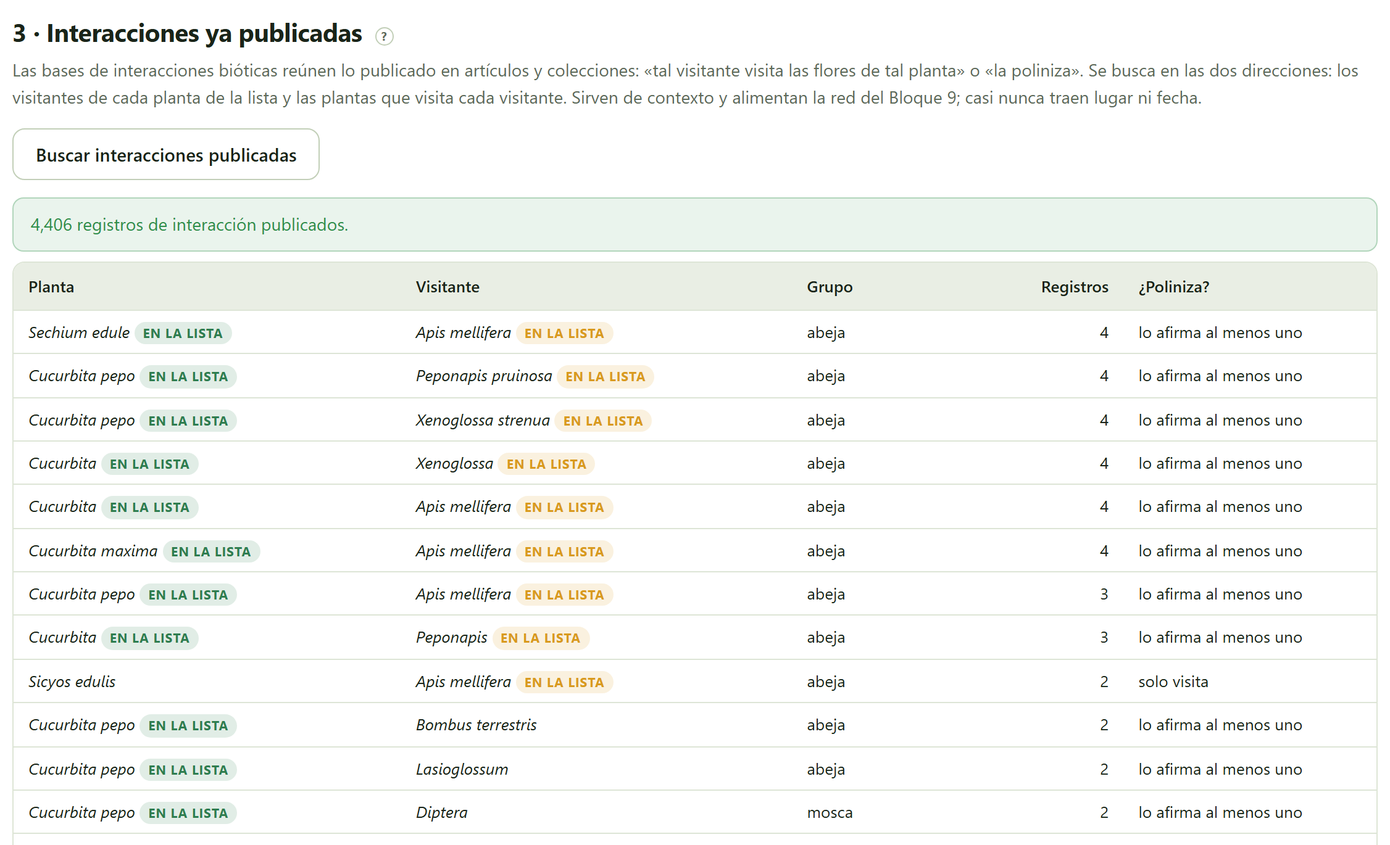
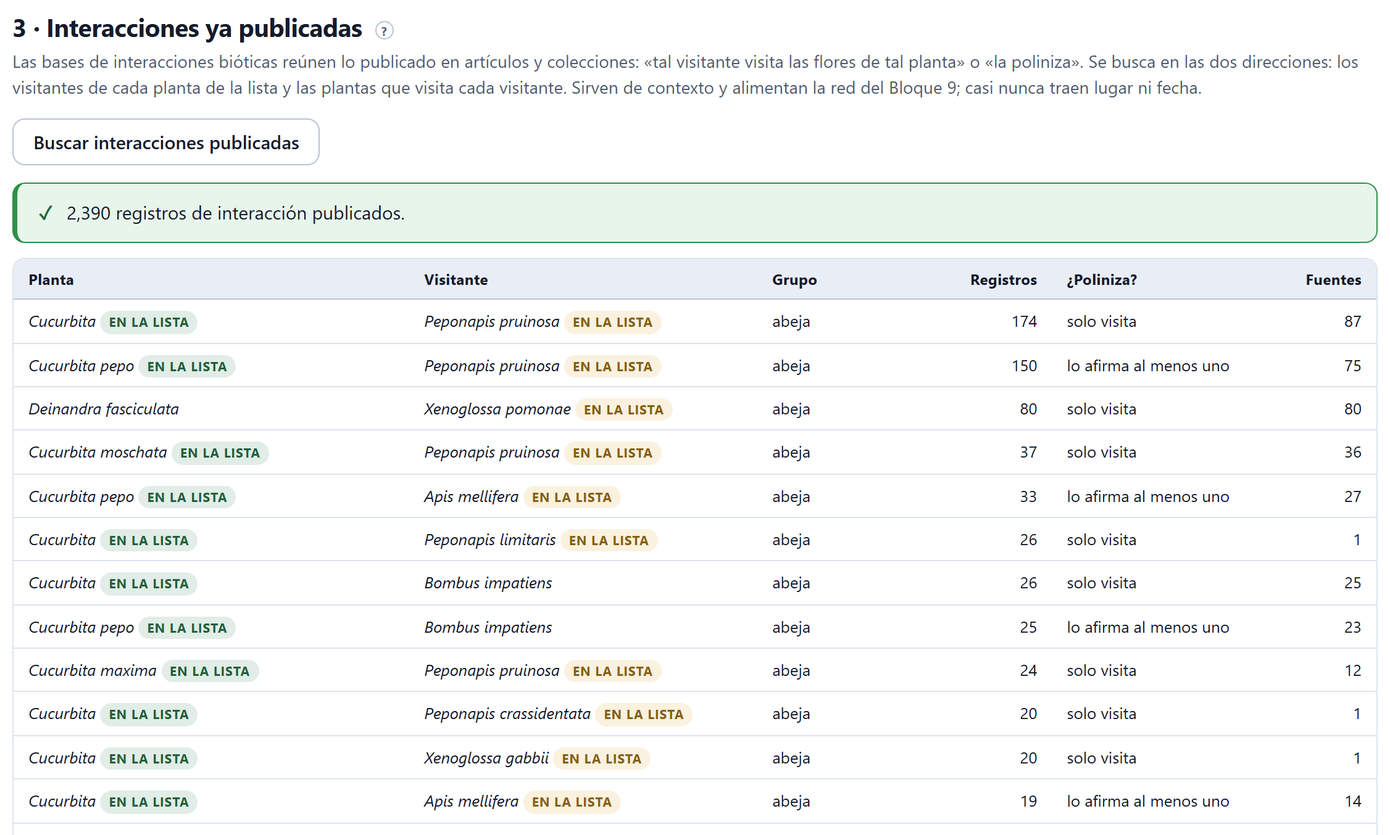
Manual en español: al día con la app 1.2.5
- Cap. 8: omisión 17 % y umbral 0.448 de Apis; futuro de práctica −45 % y −73 %.
- Cap. 10: el editor ✎ actual (seis pestañas, «Deshacer todo en esta figura»,
  «Copiar el estilo a todas las figuras»), capturas rehechas.
- Introducción: lista «Bloques» e índice «En este bloque» en lugar de la barra
  de pasos; figura I.2 rehecha.
- Cita y portada con la versión 1.2.5; captura de «Cómo citar» rehecha.
- Cap. 2: consultas a GBIF y a la base de interacciones del 31 de octubre de 2026
  (capturas y cifras nuevas); LEEME con la nueva fecha.

diff --git a/manual/es/00b-introduccion.html b/manual/es/00b-introduccion.html
@@ -24,16 +24,16 @@
   <dl>
     <dt>Autor</dt><dd><b>Luis Ángel Barrera-Guzmán</b><br><span class="small">ORCID 0000-0001-8057-2583</span></dd>
     <dt>Programa</dt><dd>PollinationPro, versión 1.2.5 (octubre de 2026) · DOI 10.5281/zenodo.23004694</dd>
-    <dt>Manual</dt><dd>Primera edición en español, 2026. Describe la versión 1.2 del programa.</dd>
+    <dt>Manual</dt><dd>Primera edición en español, 2026. Describe la versión 1.2.5 del programa.</dd>
     <dt>Licencia del programa</dt><dd>Licencia Pública General de GNU, versión 3 o posterior (GPL-3.0-or-later).</dd>
     <dt>Derechos del manual</dt><dd>© 2026 Luis Ángel Barrera-Guzmán. Todos los derechos reservados.</dd>
     <dt>Idioma de la interfaz</dt><dd>Español o inglés, con el botón <span class="ui">ES</span> · <span class="ui">EN</span> de la barra superior. En este manual los nombres de botones, campos y menús se escriben como aparecen en pantalla en español, por ejemplo <span class="ui">Depurar y aplicar</span>.</dd>
   </dl>
 
   <h4>Cómo citar el programa</h4>
-  <div class="cita">Barrera-Guzmán, L. Á. (2026). <i>PollinationPro: plataforma en el navegador para el análisis de plantas, polinizadores y su solapamiento con datos de presencia</i> (versión 1.2) [Programa de cómputo]. Zenodo. https://doi.org/10.5281/zenodo.23004694</div>
+  <div class="cita">Barrera-Guzmán, L.Á. (2026). <i>PollinationPro: plataforma en el navegador para el análisis de plantas, polinizadores y su solapamiento con datos de presencia</i> (versión 1.2.5) [software]. Zenodo. https://doi.org/10.5281/zenodo.23004694</div>
   <h4>Cómo citar este manual</h4>
-  <div class="cita">Barrera-Guzmán, L. Á. (2026). <i>PollinationPro. Manual de usuario</i> (1.ª ed.). Distribuido con PollinationPro, versión 1.2. Zenodo. https://doi.org/10.5281/zenodo.23004694</div>
+  <div class="cita">Barrera-Guzmán, L.Á. (2026). <i>PollinationPro. Manual de usuario</i> (1.ª ed.). Distribuido con PollinationPro, versión 1.2.5. Zenodo. https://doi.org/10.5281/zenodo.23004694</div>
   <p class="small">Es el <b>DOI de concepto</b> en Zenodo: lleva siempre a la versión más reciente. En línea: <span class="ruta">luisangelbg.github.io/PollinationPro</span>.</p>
 
   <div class="caja nota">
@@ -202,7 +202,7 @@
 <!-- ====================================================================== CÓMO LEER -->
 <section class="preliminares" id="como-leer" data-nueva-hoja style="--acento: var(--b0)">
   <h2 style="margin-top:0.2in">Cómo leer este manual</h2>
-  <p class="lead">El manual sigue el mismo orden que la app: diez bloques numerados que se recorren de izquierda a derecha en la barra de arriba. Cada capítulo explica un bloque y lleva su mismo número —el capítulo 5 es el Bloque 5, y sus secciones, figuras y tablas se numeran 5.1, 5.2…—. Cada uno empieza con la idea ecológica que el bloque necesita, sigue con lo que la pantalla calcula y cómo se lee, y termina con los avisos que el bloque puede mostrar y qué hacer con ellos. Esta introducción no lleva número: sus secciones van como I.1, I.2…</p>
+  <p class="lead">El manual sigue el mismo orden que la app: diez bloques numerados que se recorren de arriba abajo en la lista <span class="ui">Bloques</span> de la izquierda. Cada capítulo explica un bloque y lleva su mismo número —el capítulo 5 es el Bloque 5, y sus secciones, figuras y tablas se numeran 5.1, 5.2…—. Cada uno empieza con la idea ecológica que el bloque necesita, sigue con lo que la pantalla calcula y cómo se lee, y termina con los avisos que el bloque puede mostrar y qué hacer con ellos. Esta introducción no lleva número: sus secciones van como I.1, I.2…</p>
 
   <h3>Un color para cada bloque</h3>
   <p>El color del bloque aparece en la apertura de su capítulo, en el número de cada sección, en la pestaña del borde de la hoja y en el índice, y es el mismo de la franja de la portada y de la app.</p>
@@ -423,18 +423,18 @@
   <!-- I.6 -->
   <h2 id="si-6"><span class="num">I.6</span>Recorrido por la interfaz</h2>
   <figure>
-    <div class="marco"><img src="../img/inicio.png" alt="La pantalla inicial de PollinationPro: la barra superior con la marca, el estudio de figuras, el idioma y el tema; la barra de los diez pasos; y la portada con su pregunta, sus cuatro botones y su ilustración"></div>
-    <figcaption><b>Figura I.2.</b> La pantalla inicial. Arriba, la barra fija con la marca, el botón de la paleta (el estudio de figuras), el selector de idioma y el del tema; debajo, la barra de los diez pasos; y la portada del Bloque 1 con la pregunta que el programa contesta: <i>¿coinciden la flor y su polinizador?</i></figcaption>
+    <div class="marco"><img src="../img/inicio.png" alt="La pantalla inicial de PollinationPro: la barra superior con la marca, el estudio de figuras, el idioma y el tema; a la izquierda, la lista de los diez bloques; al centro, la ruta, los modos Documento y Enfocado, la portada con su pregunta, sus botones y su ilustración; a la derecha, el índice En este bloque"></div>
+    <figcaption><b>Figura I.2.</b> La pantalla inicial. Arriba, la barra fija con la marca, el botón de la paleta (el estudio de figuras), el selector de idioma y el del tema; a la izquierda, la lista <span class="ui">Bloques</span> con los diez bloques; a la derecha, el índice <span class="ui">En este bloque</span> con sus secciones; y, al centro, la portada del Bloque 1 con la pregunta que el programa contesta: <i>¿coinciden la flor y su polinizador?</i></figcaption>
   </figure>
   <table class="compacta">
     <thead><tr><th style="width:1.7in">Elemento</th><th>Para qué sirve</th></tr></thead>
     <tbody>
-      <tr><td><b>La barra de pasos</b></td><td>Diez botones numerados, siempre visibles; en pantallas angostas la barra se desliza de lado. Se puede saltar a cualquier bloque en cualquier momento; el que necesita algo que todavía no existe lo dice y ofrece el botón para ir a resolverlo.</td></tr>
+      <tr><td><b>La lista <span class="ui">Bloques</span> y el índice <span class="ui">En este bloque</span></b></td><td>A la izquierda, los diez bloques, siempre visibles, con una ✓ en los terminados; a la derecha, las secciones del bloque abierto. Se puede saltar a cualquier bloque en cualquier momento; el que necesita algo que todavía no existe lo dice y ofrece el botón para ir a resolverlo.</td></tr>
       <tr><td><b>Las tarjetas</b></td><td>Cada bloque se divide en tarjetas numeradas —«1 · La lista de estudio», «2 · Traer los registros de GBIF»…— que se leen de arriba abajo: primero lo que se elige, luego lo que se calcula.</td></tr>
       <tr><td><b>Los recuadros de resultados</b></td><td>Una fila de cifras grandes con su etiqueta y una línea de contexto debajo. Es el resumen de la tarjeta.</td></tr>
       <tr><td><b>El signo <span class="ui">?</span></b></td><td>Junto a un título, una cifra o una columna, abre una ficha de ayuda: qué mide, cómo se lee, la escala que dice si el valor es bajo o alto y el error más común, con sus referencias. Hay 50 fichas; cada bloque termina con su <span class="ui">📖 Guía de interpretación de este bloque</span>, que reúne las suyas.</td></tr>
       <tr><td><b>Las etiquetas de escala</b></td><td>Al lado de muchos números aparece una palabra en color —<i>moderado</i>, <i>marcada</i>, <i>aceptable</i>, <i>generalista</i>—. Sale de la escala de la ficha correspondiente, aplicada al valor que tienes en pantalla.</td></tr>
-      <tr><td><b>Los botones ⤓ y ✎ de cada figura</b></td><td>En la esquina de cada figura. ⤓ la exporta (PNG, JPG o SVG, 150 a 900 ppp, claro u oscuro). ✎ abre su editor: cualquier texto se reescribe, cambia de tamaño o de color o se oculta; cualquier color se sustituye; la fuente, el grosor de las líneas y el tamaño de los puntos se ajustan (sección 10.3).</td></tr>
+      <tr><td><b>Los botones ⤓ y ✎ de cada figura</b></td><td>En la esquina de cada figura. ⤓ la exporta (PNG, JPG o SVG, 150 a 900 ppp, claro u oscuro). ✎ abre su editor de seis pestañas: título, ejes, series, leyenda, cualquier texto (se reescribe, cambia de tamaño o de color o se oculta) y anotaciones (sección 10.3).</td></tr>
       <tr><td><b>El estudio de figuras</b></td><td>El botón de la paleta en la barra superior. Cambia la paleta (nueve, entre ellas la de Okabe–Ito para daltónicos y una en grises), la fuente, las escalas y el fondo de <b>todas</b> las figuras a la vez, en pantalla y en lo que se exporta.</td></tr>
       <tr><td><b><span class="ui">Continuar a … →</span></b></td><td>Al pie de cada bloque. Lleva al siguiente.</td></tr>
       <tr><td><b>Los mensajes</b></td><td>Bandas de color bajo una tarjeta: azul o verde para información, ámbar para un aviso, rojo para un error que impide seguir. Cada capítulo termina con los de su bloque.</td></tr>

diff --git a/manual/es/02-bloque2.html b/manual/es/02-bloque2.html
@@ -53,9 +53,9 @@
   <p>Todo empieza con los nombres. Se escriben a cualquier nivel —especie (<i>Coffea arabica</i>), género (<i>Bombus</i>) o familia— en la columna de <b>Plantas</b> o en la de <b>Visitantes</b>, y cada nombre es una <b>entrada</b> de la lista: un género reúne los registros de todas sus especies. Varios nombres se separan con comas o punto y coma. O se parte de uno de los siete <b>sistemas de ejemplo</b>, que son puntos de partida, no recomendaciones: cucurbitáceas de México y abejas de la calabaza; café y abejas; cacao y mosquitas polinizadoras (<i>Forcipomyia</i>); solanáceas y abejorros; aguacate y sus visitantes; agaves y murciélagos nectarívoros; y vainilla y abejas de las orquídeas.</p>
   <figure>
     <div class="marco"><img src="../img/b2-lista.png" alt="La tarjeta de la lista de estudio con los siete sistemas de ejemplo, el de cucurbitáceas elegido, y las nueve entradas resueltas en GBIF con su rango, familia, orden, estado, clave y registros en el mundo"></div>
-    <figcaption><b>Figura 2.1.</b> El sistema de las cucurbitáceas de México resuelto en GBIF (consulta real del 27 de septiembre de 2026; tus números serán otros). Cada entrada muestra su rango, familia, orden, estado taxonómico y la clave de GBIF con su enlace; <i>Cucurbita</i> muestra además un selector, porque GBIF tiene más de un nombre con esa grafía.</figcaption>
+    <figcaption><b>Figura 2.1.</b> El sistema de las cucurbitáceas de México resuelto en GBIF (consulta real del 31 de octubre de 2026; tus números serán otros). Cada entrada muestra su rango, familia, orden, estado taxonómico y la clave de GBIF con su enlace; <i>Cucurbita</i> muestra además un selector, porque GBIF tiene más de un nombre con esa grafía.</figcaption>
   </figure>
-  <p><span class="ui">Resolver los nombres en GBIF</span> busca cada nombre en el esqueleto taxonómico de GBIF. Cuando hay <b>homónimos</b> —el mismo nombre en dos reinos, o un nombre fósil junto al vivo— la app elige el del reino que corresponde al papel (plantas o animales) con más registros, y deja un selector para cambiarlo. En la Figura 2.1, <i>Cucurbita</i> L. tiene 90,979 registros y un homónimo de 180. Cada nombre queda con su número de registros en el mundo; después de contar con los países elegidos (sección 2.3), el número pasa a ser el de esos países.</p>
+  <p><span class="ui">Resolver los nombres en GBIF</span> busca cada nombre en el esqueleto taxonómico de GBIF. Cuando hay <b>homónimos</b> —el mismo nombre en dos reinos, o un nombre fósil junto al vivo— la app elige el del reino que corresponde al papel (plantas o animales) con más registros, y deja un selector para cambiarlo. En la Figura 2.1, <i>Cucurbita</i> L. tiene 94,500 registros y un homónimo de 180; entre las especies de chayote, <i>Sechium edule</i> tiene 4,278 y las silvestres entre 53 y 145, y entre los visitantes la abeja melífera pasa de 1.3 millones. Cada nombre queda con su número de registros en el mundo; después de contar con los países elegidos (sección 2.3), el número pasa a ser el de esos países.</p>
   <table class="compacta">
     <thead><tr><th style="width:1.9in">Lo que puede decir un nombre</th><th>Qué significa y qué hacer</th></tr></thead>
     <tbody>
@@ -75,7 +75,7 @@
   <p>La segunda tarjeta pide los registros de cada nombre resuelto, <b>solo con coordenadas</b> y filtrados por país desde el servidor. Elegir los países aquí es mucho mejor que descargar el mundo y filtrar después: el conteo ya llega filtrado y la descarga es más corta.</p>
   <figure>
     <div class="marco"><img src="../img/b2-gbif.png" alt="La tarjeta de GBIF con los botones de región, las casillas de 31 países, el máximo de registros por nombre, los años, el tipo de registro, la casilla de problemas geoespaciales y el mensaje del conteo"></div>
-    <figcaption><b>Figura 2.2.</b> Los filtros de la descarga y el resultado de <span class="ui">Contar cuántos hay</span> para la lista de las cucurbitáceas en México: 37,185 registros con coordenadas, y un nombre (<i>Apis mellifera</i>) que pasa del máximo de 20,000.</figcaption>
+    <figcaption><b>Figura 2.2.</b> Los filtros de la descarga y el resultado de <span class="ui">Contar cuántos hay</span> para la lista de las cucurbitáceas en México (consulta real del 31 de octubre de 2026): 37,586 registros con coordenadas, y un nombre (<i>Apis mellifera</i>) que pasa del máximo de 20,000.</figcaption>
   </figure>
   <table class="compacta">
     <thead><tr><th style="width:1.9in">Control</th><th>Qué hace</th></tr></thead>
@@ -108,12 +108,12 @@
   <p><span class="ui">Buscar interacciones publicadas</span> consulta una base pública de interacciones bióticas, que reúne lo publicado en artículos, bases y colecciones, en las dos direcciones: los visitantes de las flores de cada planta de la lista y las plantas cuyas flores visita cada visitante. El resultado es una tabla de pares con el grupo del visitante (abeja, avispa, mosca sírfida, mosca, mariposa o polilla, escarabajo, murciélago, ave), cuántos registros lo respaldan y si al menos uno de ellos lo llama <b>polinización</b> y no solo visita.</p>
   <figure>
     <div class="marco"><img src="../img/b2-globi.png" alt="La tabla de interacciones publicadas: planta, visitante, grupo, registros y si alguno afirma polinización; con etiquetas que marcan los nombres que están en la lista"></div>
-    <figcaption><b>Figura 2.3.</b> Las primeras filas de 4,406 registros de interacción publicados para la lista de las cucurbitáceas (consulta real). La etiqueta <span class="ui">en la lista</span> marca los nombres que pertenecen a una entrada de tu lista; <i>Sicyos edulis</i>, un sinónimo antiguo del chayote, no la lleva.</figcaption>
+    <figcaption><b>Figura 2.3.</b> Las primeras filas de 2,390 registros de interacción publicados para la lista de las cucurbitáceas (consulta real del 31 de octubre de 2026). Arriba quedan las calabazas (<i>Cucurbita</i>) con <i>Peponapis pruinosa</i>. La etiqueta <span class="ui">en la lista</span> marca los nombres que pertenecen a una entrada de tu lista; <i>Deinandra fasciculata</i>, una compuesta que visita <i>Xenoglossa pomonae</i>, no la lleva porque llegó por la búsqueda del visitante.</figcaption>
   </figure>
   <p>Se piden hasta 4,000 registros por nombre. La tabla muestra hasta 300 pares ordenados por número de registros; <span class="ui">⤓ Interacciones (.csv)</span>, al pie, descarga todos los registros con su tipo, su fuente (cuando la base la da) y sus coordenadas (cuando las tiene). Cuando la base devuelve la cita del estudio de origen, aparece además la columna <b>Fuentes</b> con cuántos estudios respaldan cada par.</p>
   <div class="caja nota">
     <div class="caja-t"><span class="ico">i</span>Lo que la tabla enseña antes del análisis</div>
-    <p>En la Figura 2.3 ya hay tres lecturas útiles. Hay registros publicados de <i>Sechium edule</i> con la abeja melífera, pero ninguno con las abejas de la calabaza: el vínculo chayote–<i>Xenoglossa</i> que el estudio de práctica explora está sin documentar. Algunas plantas aparecen con nombres que ya no se usan (<i>Sicyos edulis</i>): el Bloque 9 puede aplicarles los sinónimos del Bloque 3. Y un mismo par aparece a nivel de especie y de género (<i>Cucurbita pepo</i> y <i>Cucurbita</i>): el Bloque 9 permite reunir plantas y visitantes por género.</p>
+    <p>La tabla completa ya da tres lecturas útiles. Las primeras filas son de calabazas con abejas de la calabaza (<i>Peponapis</i>); <i>Sechium edule</i> aparece más abajo, fuera de la Figura 2.3, solo con la abeja melífera (2 registros, uno que afirma polinización) y con <i>Trigona corvina</i>, y con ninguna abeja de la calabaza: el vínculo chayote–<i>Xenoglossa</i> que el estudio de práctica explora está sin documentar. Algunas plantas aparecen con nombres que ya no se usan (<i>Sicyos edulis</i>, sinónimo antiguo del chayote, con la abeja melífera y otros tres visitantes): el Bloque 9 puede aplicarles los sinónimos del Bloque 3. Y un mismo par aparece a nivel de especie y de género (<i>Cucurbita pepo</i> y <i>Cucurbita</i>): el Bloque 9 permite reunir plantas y visitantes por género.</p>
   </div>
 
   <!-- 2.5 -->

diff --git a/manual/es/10-bloque10.html b/manual/es/10-bloque10.html
@@ -80,22 +80,22 @@
     </div>
   </div>
   <h3>El editor ✎: una figura a la vez</h3>
-  <p>Cada figura de la app tiene, junto al botón ⤓, un botón ✎ que abre su propio editor. Lo que se cambie ahí vale solo para esa figura, se conserva aunque la figura se recalcule y sale en su exportación, en el catálogo, en el informe y en el paquete.</p>
-  <figure class="media">
-    <div class="marco"><img src="../img/b10-editor-general.png" alt="El editor de la rosa circular en su pestaña General: familia tipográfica, tamaño de todos los textos, grosor de las líneas, tamaño de los puntos, color de textos y ejes, fondo y líneas de la rejilla"></div>
-    <figcaption><b>Figura 10.4.</b> La pestaña <span class="ui">General</span> del editor, abierta sobre la rosa circular del Bloque 6.</figcaption>
-  </figure>
+  <p>Cada figura de la app tiene, junto al botón ⤓, un botón ✎ que abre su propio editor. Lo que se cambie ahí vale solo para esa figura, aunque se recalcule, y sale en su exportación, en el catálogo, en el informe y en el paquete. El editor tiene seis pestañas —<span class="ui">General</span>, <span class="ui">Ejes y rejilla</span>, <span class="ui">Series</span>, <span class="ui">Leyenda</span>, <span class="ui">Textos</span> y <span class="ui">Anotaciones</span>—; las tres que más usarás son estas.</p>
   <table class="compacta">
     <thead><tr><th style="width:1.2in">Pestaña</th><th>Qué se edita</th></tr></thead>
     <tbody>
-      <tr><td><span class="ui">General</span></td><td>La familia tipográfica, el tamaño de todos los textos (de 0.6 a 2.2 veces), el grosor de las líneas y el tamaño de los puntos (de 0.3 a 3 veces), el color de todos los textos y el de los ejes (con su casilla <i>usar</i>), el fondo y las líneas de la rejilla.</td></tr>
-      <tr><td><span class="ui">Textos</span></td><td>Cada texto de la figura, por su redacción original: se reescribe, cambia de tamaño, se pone en negrita (N) o cursiva (K), cambia de color o se oculta (⦸). Sirve para traducir una etiqueta, acortar un nombre o quitar un rótulo que la revista no quiere.</td></tr>
-      <tr><td><span class="ui">Colores</span></td><td>Cada color que usa la figura, con cuántos elementos lo llevan, para sustituirlo por otro.</td></tr>
+      <tr><td><span class="ui">General</span></td><td>El título dentro de la figura (con subtítulo, nota al pie, tamaño y alineación), la familia tipográfica, el tamaño de todos los textos (0.6 a 2.2 veces) y su color, el grosor de las líneas y el tamaño de los puntos (0.3 a 3 veces), el fondo y un marco. Los colores de los ejes y de la rejilla están en <span class="ui">Ejes y rejilla</span>.</td></tr>
+      <tr><td><span class="ui">Textos</span></td><td>Cada texto de la figura, por su redacción original: se reescribe, cambia de tamaño, se pone en negrita (N) o cursiva (K), cambia de color o se oculta. Sirve para traducir o quitar un rótulo.</td></tr>
+      <tr><td><span class="ui">Series</span></td><td>Cada color de la figura, con el nombre que le da la leyenda: se cambia su color, su grosor, su trazo o su opacidad, o se oculta la serie.</td></tr>
     </tbody>
   </table>
+  <figure class="media">
+    <div class="marco"><img src="../img/b10-editor-general.png" alt="El editor de la rosa circular en su pestaña General: título dentro de la figura, subtítulo y nota al pie, tamaño y alineación del título, familia tipográfica, tamaño de todos los textos, color de todos los textos, grosor de las líneas, tamaño de los puntos, fondo y marco alrededor de toda la figura"></div>
+    <figcaption><b>Figura 10.4.</b> La pestaña <span class="ui">General</span> del editor, abierta sobre la rosa circular del Bloque 6.</figcaption>
+  </figure>
   <figure>
-    <div class="marco"><img src="../img/b10-editor.png" alt="El editor del fenograma en su pestaña Textos: una fila por cada texto de la figura con su campo, su tamaño, negrita, cursiva, color y ocultar"></div>
-    <figcaption><b>Figura 10.5.</b> La pestaña <span class="ui">Textos</span> sobre el fenograma: cada mes, cada unidad y cada «n =» se editan por separado. Al pie, <span class="ui">Deshacer todos los cambios de esta figura</span> y <span class="ui">Copiar el estilo general a todas</span>.</figcaption>
+    <div class="marco"><img src="../img/b10-editor.png" alt="El fenograma y, debajo, su editor en la pestaña Textos: una fila por cada texto de la figura con su campo, su tamaño, negrita, cursiva, color y ocultar"></div>
+    <figcaption><b>Figura 10.5.</b> La pestaña <span class="ui">Textos</span> sobre el fenograma: cada mes, cada unidad y cada «n =» se editan por separado. Al pie del editor (Figura 10.4), <span class="ui">Deshacer todo en esta figura</span> y <span class="ui">Copiar el estilo a todas las figuras</span>.</figcaption>
   </figure>
   <div class="caja nota">
     <div class="caja-t"><span class="ico">i</span>Un texto se reconoce por su redacción original</div>

diff --git a/manual/es/11-apendices.html b/manual/es/11-apendices.html
@@ -160,7 +160,7 @@
       <tr><td>Las capas se ven desplazadas o salen «remuestreadas»</td><td>Tienen rejillas distintas. Usa capas de la misma fuente y resolución.</td></tr>
       <tr><td>El Bloque 8 dice que faltan capas futuras</td><td>Nombra los archivos futuros igual que los actuales al final («bio_1»…).</td></tr>
       <tr><td>La red no tiene H₂′ ni d′</td><td>Mezclaste visitas propias con interacciones publicadas: usa solo tus visitas para esos índices.</td></tr>
-      <tr><td>Una figura sale distinta de como la dejé</td><td>Revisa el editor ✎ de esa figura y el estudio de figuras: los cambios se conservan en el navegador. <span class="ui">Deshacer los cambios de esta figura</span> la devuelve a como la dibuja la app.</td></tr>
+      <tr><td>Una figura sale distinta de como la dejé</td><td>Revisa el editor ✎ de esa figura y el estudio de figuras: los cambios se conservan en el navegador. <span class="ui">Deshacer todo en esta figura</span> la devuelve a como la dibuja la app.</td></tr>
       <tr><td>El informe no trae un bloque</td><td>Ese bloque no está calculado: ábrelo (se calcula al abrirlo) y vuelve al Bloque 10.</td></tr>
       <tr><td>El navegador bloquea muchas descargas</td><td>Exporta las figuras como un solo .zip desde el catálogo del Bloque 10.</td></tr>
       <tr><td>Quiero empezar de cero</td><td><span class="ui">Vaciar la lista</span> en el Bloque 2 borra el estudio; <span class="ui">Restablecer todo</span> en los estilos del mapa lo devuelve a su inicio.</td></tr>
@@ -258,9 +258,9 @@
   <p>PollinationPro está escrita en HTML, CSS y JavaScript sin ninguna biblioteca de terceros: ni para las gráficas, ni para los mapas, ni para leer GeoTIFF u hojas de cálculo, ni para escribir el .zip. Los métodos son los de las publicaciones originales, citadas en el código, en la portada y en el informe. Los contornos de los países y de los estados de México son de Natural Earth (dominio público). Los datos de práctica y las capas de práctica son ficticios y los genera el propio programa. El archivo <span class="ruta">PROCEDENCIA.md</span> de la carpeta del programa detalla el origen de cada cosa, y <span class="ruta">tests/index.html</span> comprueba el motor con 168 pruebas, y la carpeta <span class="ruta">validation/</span> lo compara número por número con paquetes de R escritos por otras personas (34,299 comparaciones, ninguna en desacuerdo).</p>
   <h3>F.2 · Licencia</h3>
   <p>El programa se distribuye bajo la <b>Licencia Pública General de GNU, versión 3 o posterior</b> (GPL-3.0-or-later): se puede usar, copiar, estudiar y modificar libremente, con la condición de que las versiones modificadas se distribuyan bajo la misma licencia y conserven la atribución. El texto completo está en el archivo <span class="ruta">LICENSE</span>. Este manual es © 2026 Luis Ángel Barrera-Guzmán, todos los derechos reservados.</p>
-  <h3>F.3 · Cómo citarla</h3>
-  <div class="cita">Barrera-Guzmán, L. Á. (2026). <i>PollinationPro: plataforma en el navegador para el análisis de plantas, polinizadores y su solapamiento con datos de presencia</i> (versión 1.2) [Programa de cómputo]. Zenodo. https://doi.org/10.5281/zenodo.23004694</div>
-  <div class="cita">Barrera-Guzmán, L. Á. (2026). <i>PollinationPro. Manual de usuario</i> (1.ª ed.). Distribuido con PollinationPro, versión 1.2. Zenodo. https://doi.org/10.5281/zenodo.23004694</div>
+  <h3 data-nueva-hoja>F.3 · Cómo citarla</h3>
+  <div class="cita">Barrera-Guzmán, L.Á. (2026). <i>PollinationPro: plataforma en el navegador para el análisis de plantas, polinizadores y su solapamiento con datos de presencia</i> (versión 1.2.5) [software]. Zenodo. https://doi.org/10.5281/zenodo.23004694</div>
+  <div class="cita">Barrera-Guzmán, L.Á. (2026). <i>PollinationPro. Manual de usuario</i> (1.ª ed.). Distribuido con PollinationPro, versión 1.2.5. Zenodo. https://doi.org/10.5281/zenodo.23004694</div>
   <p class="small">El DOI es el de concepto en Zenodo: siempre lleva a la versión más reciente. La cita del programa está también en <span class="ruta">CITATION.cff</span> y al final de cada informe del Bloque 10. Cita además los métodos que usaste a sus obras originales y cada descarga de GBIF con su DOI.</p>
 </section>
 

diff --git a/manual/es/08-bloque8.html b/manual/es/08-bloque8.html
@@ -78,8 +78,8 @@
       <tr><td><b>Celdas con registros</b></td><td>Las presencias del modelo (una por celda de la capa).</td><td>260 · 305 · 642</td></tr>
       <tr><td><b>AUC (validación)</b></td><td>La probabilidad de que una celda con registro reciba más idoneidad que una del fondo al azar (Swets 1988).</td><td>0.793 · 0.609 · 0.577</td></tr>
       <tr><td><b>TSS (validación)</b></td><td>Sensibilidad + especificidad − 1 con el umbral elegido; 0 es azar (Allouche et al. 2006).</td><td>0.477 · 0.090 · 0.114</td></tr>
-      <tr><td><b>Omisión</b></td><td>La fracción de registros de validación que caen fuera del área idónea.</td><td>13 % · 48 % · 16 %</td></tr>
-      <tr><td><b>Umbral</b></td><td>El valor de idoneidad del corte.</td><td>0.452 · 0.525 · 0.444</td></tr>
+      <tr><td><b>Omisión</b></td><td>La fracción de registros de validación que caen fuera del área idónea.</td><td>13 % · 48 % · 17 %</td></tr>
+      <tr><td><b>Umbral</b></td><td>El valor de idoneidad del corte.</td><td>0.452 · 0.525 · 0.448</td></tr>
     </tbody>
   </table>
   <div class="caja regla">
@@ -127,7 +127,7 @@
   <p>La cuarta tarjeta aplica los modelos ya ajustados, sin volver a ajustarlos, a las mismas variables calculadas para un periodo futuro según un modelo climático y una trayectoria de emisiones. <span class="ui">Elegir las capas futuras…</span> recibe los archivos, que se reconocen por el final de su nombre («bio_1», «bio_12»…) y deben ser las mismas variables en uso. Para practicar, <span class="ui">Usar el futuro de práctica (ficticio)</span> carga un futuro inventado, más cálido y más seco, que solo funciona con las capas de práctica.</p>
   <figure class="alta">
     <div class="marco"><img src="../img/b8-futuro.png" alt="La tabla del área idónea de la planta, con visitante y sin visitante, actual y futura con su cambio, y el mapa del desajuste con el futuro de práctica"></div>
-    <figcaption><b>Figura 8.4.</b> El desajuste con el futuro de práctica. El área idónea del chayote cae 62 %, la que tiene visitante potencial 44 % y el desajuste 74 %: en este futuro inventado, la planta pierde sobre todo las zonas donde ya estaba sola.</figcaption>
+    <figcaption><b>Figura 8.4.</b> El desajuste con el futuro de práctica. El área idónea del chayote cae 62 %, la que tiene visitante potencial 45 % y el desajuste 73 %: en este futuro inventado, la planta pierde sobre todo las zonas donde ya estaba sola.</figcaption>
   </figure>
   <p>La tabla compara, en km², el área idónea de la planta, la que tiene visitante potencial y el desajuste, hoy y en el futuro, con su cambio en porcentaje. El informe del Bloque 10 lo retoma con los nombres de los archivos futuros.</p>
   <div class="caja nota">

diff --git a/manual/es/00a-portada.html b/manual/es/00a-portada.html
@@ -220,7 +220,7 @@
   /* ---------------------------------------------------------------- author and edition */
   const foot = el('g', { 'text-anchor': 'middle', 'font-family': 'Cormorant, serif' });
   el('text', { x: W / 2, y: 1052, 'font-size': 19, 'font-weight': 600, fill: INK, 'letter-spacing': 0.5 }, foot, 'Luis Ángel Barrera-Guzmán');
-  el('text', { x: W / 2, y: 1074, 'font-family': 'Jost, sans-serif', 'font-size': 9.5, fill: GRIS, 'letter-spacing': 2.4 }, foot, 'PRIMERA EDICIÓN · 2026 · VERSIÓN 1.2');
+  el('text', { x: W / 2, y: 1074, 'font-family': 'Jost, sans-serif', 'font-size': 9.5, fill: GRIS, 'letter-spacing': 2.4 }, foot, 'PRIMERA EDICIÓN · 2026 · VERSIÓN 1.2.5');
 })();
 </script>
 </body>

diff --git a/manual/LEEME.md b/manual/LEEME.md
@@ -26,7 +26,7 @@ manual/
 Las capturas se toman con la app abierta desde el servidor local o `file://`, en español, tema claro, 1400 píxeles
 de ancho, al doble de resolución, con el **estudio de práctica «Cucurbitáceas y abejas de la calabaza»** depurado
 con los valores por omisión y, en los Bloques 7 y 8, las **capas de práctica** del programa. Las figuras del
-Bloque 2 que muestran GBIF y la base de interacciones son consultas reales del 27 de septiembre de 2026. Todos
+Bloque 2 que muestran GBIF y la base de interacciones son consultas reales del 31 de octubre de 2026. Todos
 los números del manual salen de esas corridas.
 
 ## Partes
